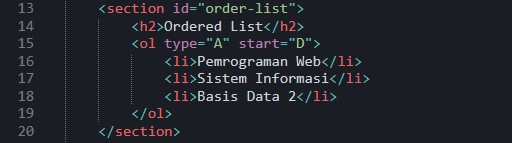
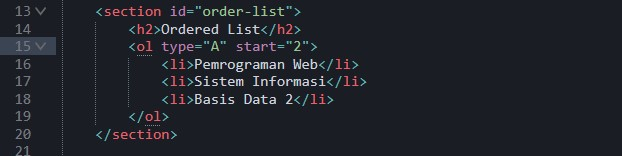
update readme.md, add screenshoot

diff --git a/lab3_form.html b/lab3_form.html
@@ -62,10 +62,9 @@
 
 	<h1 class="formsaya">Form Saya</h1>
 
-	<form action="submitdatadiri.php" method="get"	id="formsaya">
+	<form action="submitdatabarang.php" method="get"	id="formsaya">
 		<fieldset>
 			<legend>Data Barang</legend>
-
 			<div>
 				<label for="inputnama">Nama</label>
 				<input type="post" name="inputnama" id="inputnama">
@@ -90,13 +89,13 @@
 					<option value="Hitam">Hitam</option>
 					<option value="Putih">Putih</option>
 				    <option value="Merah">Merah</option>
-				/</select>
+				</select>
 			</div>
 			<div>
 				<input type="submit" value="Submit">
 			</div>
 		</fieldset>
-
 	</form>
+
 </body>
 </html>

diff --git a/lab3_list.htm.html b/lab3_list.htm.html
@@ -12,7 +12,7 @@
 
 	<section id="order-list">
 		<h2>Ordered List</h2>
-		<ol type="A" start="D">
+		<ol type="A" start="2">
 			<li>Pemrograman Web</li>
 			<li>Sistem Informasi</li>
 			<li>Basis Data 2</li>

diff --git a/lab3_tabel.html b/lab3_tabel.html
@@ -40,6 +40,7 @@
 				<td>3.</td>
 				<td>Teknik Lingkungan</td>
 			</tr>
+			
 		</tbody>
 	</table>
 

diff --git a/README.md b/README.md
@@ -1,1 +1,106 @@
-# Lab3Web
+
+# PRAKTIKUM PEMROGRAMAN WEB 3
+
+## Praktikum
+
+Praktikum pemrograman web membuat list, table dan form. Praktikum dilakukan dengan mengikuti petunjuk pada modul yang sudah disediakan.
+
+## 1. List
+
+List berikut adalah hasil dari praktikum yang dilakukan dengan mengikuti petunjuk dalam modul.
+
+![enter image description here](https://github.com/antonmartinus72/Lab3Web/raw/main/assets/1_ss.jpg)
+
+![enter image description here](https://github.com/antonmartinus72/Lab3Web/raw/main/assets/1_code.jpg)
+
+## 2. Ordered List
+
+Berikut adalah ordered list yang sudah diubah dari urutan angka menjadi huruf :
+
+![enter image description here](https://github.com/antonmartinus72/Lab3Web/raw/main/assets/2_ss.jpg)
+
+Bagian yang diubah terdapat pada tag ordered list `<o>` pada atribut `type="A"` yang digunakan untuk menentukan tipe urutan list dan atribut `start="2"` untuk menentukan urutan dimulai pada urutan ke 2 yaitu "B".
+
+![enter image description here](https://github.com/antonmartinus72/Lab3Web/raw/main/assets/2_code.jpg)
+
+
+## 3. Unordered List
+
+Bullet pada unordered list diubah dengan menggunakan gambar sebagai bullet.
+
+![enter image description here](https://github.com/antonmartinus72/Lab3Web/raw/main/assets/3_ss.jpg)
+
+Unordered list pada gambar diatas menggunakan css untuk mengubah bullet pada list.
+
+![enter image description here](https://github.com/antonmartinus72/Lab3Web/raw/main/assets/3_code.jpg)
+
+## 4. Description List
+
+Unordered list juga dapat digunakan sebagai nested list seperti berikut :
+
+![enter image description here](https://github.com/antonmartinus72/Lab3Web/raw/main/assets/4_ss.jpg)
+
+Description List diatas dapat dibuat menjadi nested dengan memasukan tag description list `<dl>` kedalam tag `<dd>` di bawahnya.
+
+![enter image description here](https://github.com/antonmartinus72/Lab3Web/raw/main/assets/4_code.jpg)
+
+## 5. Table
+
+Berikut adalah hasil dari table yang ada pada modul praktikum :
+
+![enter image description here](https://github.com/antonmartinus72/Lab3Web/raw/main/assets/5_ss.jpg)
+
+![enter image description here](https://github.com/antonmartinus72/Lab3Web/raw/main/assets/5_code.jpg)
+
+## 7. Table Dengan Rowspan
+
+Tabel berikut menggunakan atribut `rowspan` untuk menggabungkan baris seperti berikut :
+
+![enter image description here](https://github.com/antonmartinus72/Lab3Web/raw/main/assets/6_ss.jpg)
+
+Atribut rowspan `<rowspan="3">` dibawah ini digunakan untuk mengisi kolom sepanjang 3 baris.
+
+![enter image description here](https://github.com/antonmartinus72/Lab3Web/raw/main/assets/6_code.jpg)
+
+## 8. Table Dengan CSS
+
+Tampilan tabel berikut sudah di ubah menggunakan atribut css. 
+
+![enter image description here](https://github.com/antonmartinus72/Lab3Web/raw/main/assets/7_ss.jpg)
+
+Border pada table diubah menjadi tipe `dashed` didalam css internal pada atribut `border-style`.
+
+Untuk backgroud diubah dalam css internal maupun css inline pada atribut `style` html.
+
+![enter image description here](https://github.com/antonmartinus72/Lab3Web/raw/main/assets/7_code.jpg)
+
+## 9. Form
+
+Berikut form hasil dari praktikum yang ada pada modul.
+
+![enter image description here](https://github.com/antonmartinus72/Lab3Web/raw/main/assets/8_ss.jpg)
+
+![enter image description here](https://github.com/antonmartinus72/Lab3Web/raw/main/assets/8_code.jpg)
+
+## 11. Form dengan Dropdown dan Listbox.
+
+Form dibawah ini menggunakan tag `<input>` untuk melakukan input biasa dan tag `<select>` untuk melakukan input yang dipilih dari drowdown dan Listbox.
+
+List box pada gambar dibawah ini dapat dipilih secara multiple atau ganda dengan menggunakan tombol **control** atau **shift** pada keyboard.
+
+![enter image description here](https://github.com/antonmartinus72/Lab3Web/raw/main/assets/9_ss.jpg)
+
+Form pada kode dibawah ini menggunakan atribut `method="get"` untuk sekedar mengetahui apakah hasil input dapat dikirim ke halaman yang dituju.
+
+Tag yang digunakan untuk membuat **dropdown** adalah tag `<select>` dengan tag `<option>` di dalamnya untuk mendefinisikan nama nilai dan diisi atribut `value` yang digunakan untuk mendifinisikan nilai, yang akan dikirim ke halaman yang dimaksud. Dalam kasus ini adalah "submitdatabarang.php" yang ada pada tag `<form>`.
+
+Sedangkan untuk membuat **listbox** betuk yang digunakan hampir sama dengan **dropdown**. Perbedaannya adalah terdapat atribut `multiple` pada tag `<select>` yang digunkan untuk memilih item secara ganda. Dengan menggunakan atribut `multiple` maka listbox akan dibuat secara otomatis.
+
+![enter image description here](https://github.com/antonmartinus72/Lab3Web/raw/main/assets/9_code.jpg)
+
+Selanjutnya adalah hasil yang dikirim ke halaman "submitdatabarang.php".
+Data dikirim dengan menggunakan tombol hijau yang ada pada bagian bawah halaman. Data yang dikirim berikut menggunakan `mothod="get"`.
+
+![enter image description here](https://github.com/antonmartinus72/Lab3Web/raw/main/assets/10_ss.jpg)
+
+Sekian, Terimakasih
